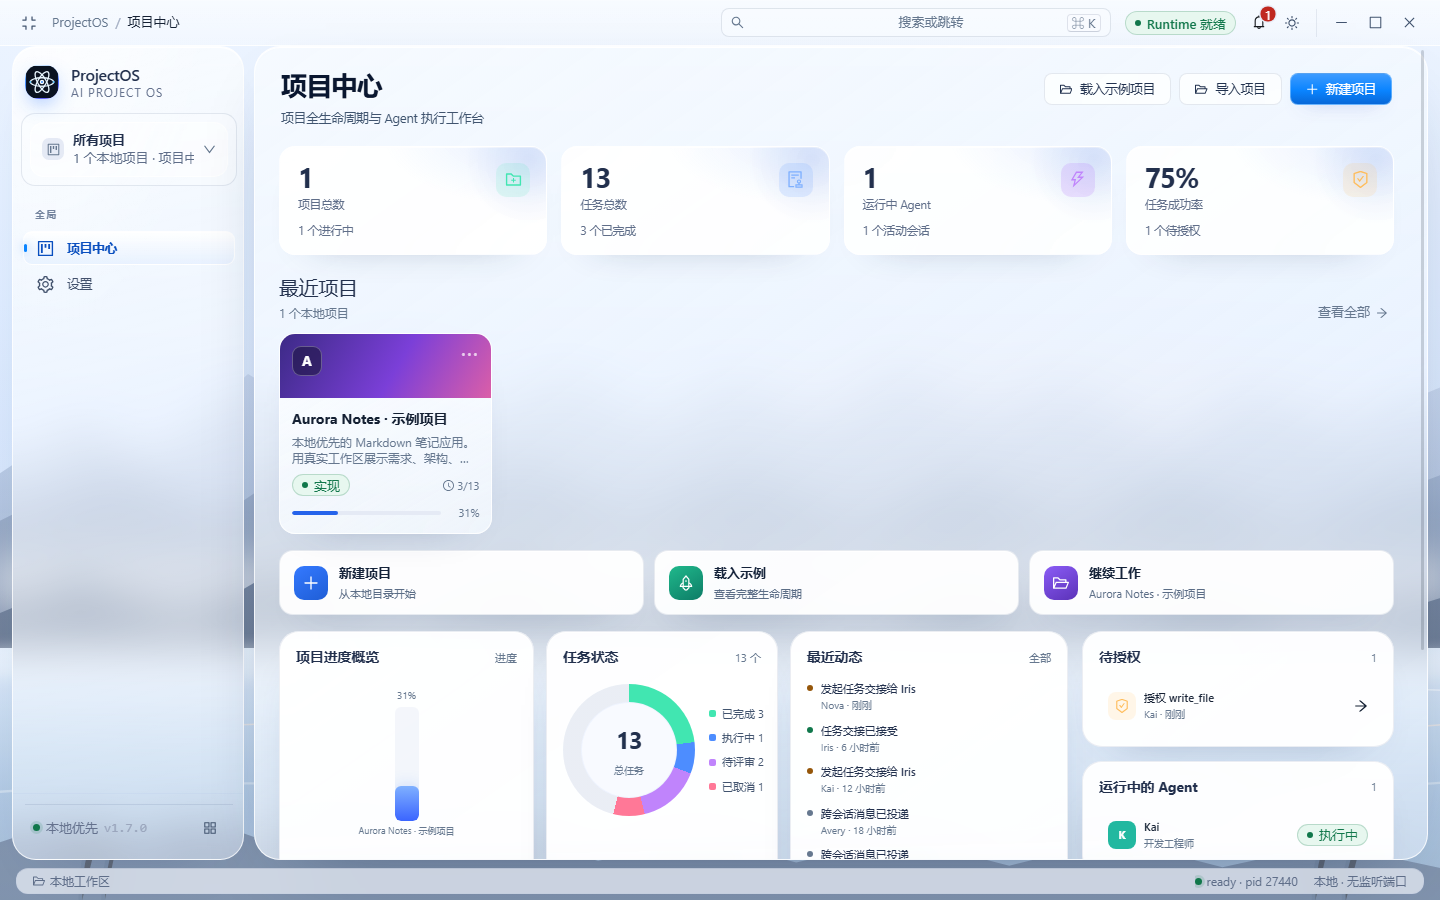
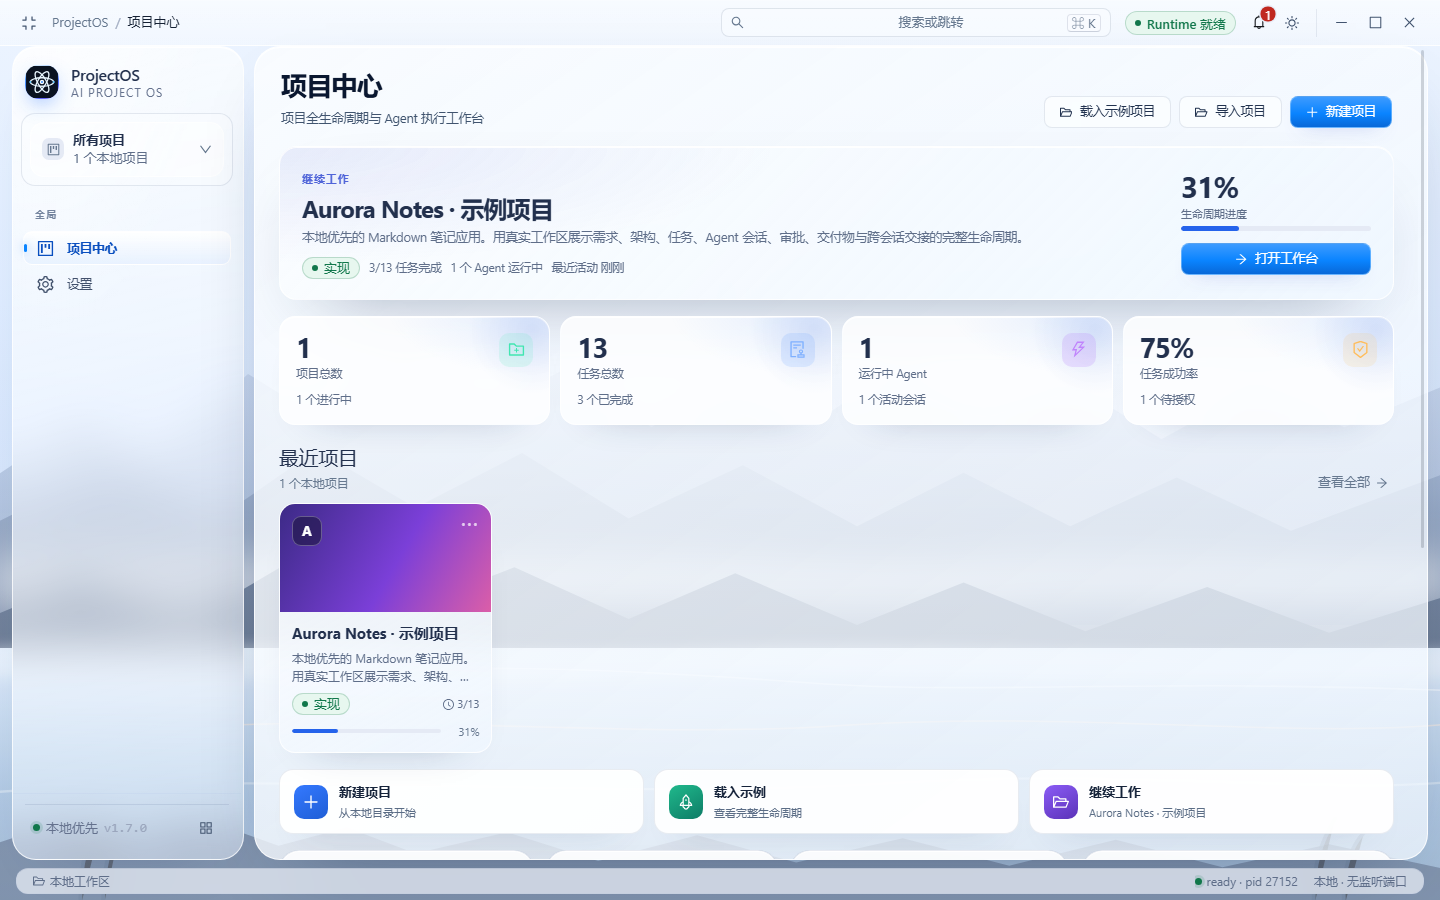
feat(next-ui): give project center a real current-project hero

diff --git a/apps/desktop/src/renderer/src/styles/next-ui-app.css b/apps/desktop/src/renderer/src/styles/next-ui-app.css
@@ -594,3 +594,41 @@
 .pui-overlay-scroll.po-task-detail-scroll { padding: 0; }
 .pui-overlay-scroll.po-task-detail-scroll .po-task-detail { padding: 12px 16px 18px; }
 .pui-overlay-inspector .po-task-drawer-toolbar { margin: 0 0 10px; }
+
+/* Project Center hero: real current project, not a decorative banner. */
+.nx-center-hero {
+  display: grid;
+  grid-template-columns: minmax(0, 1fr) 190px;
+  gap: 18px;
+  align-items: center;
+  padding: 20px 22px;
+  border: 1px solid rgba(255, 255, 255, .78);
+  border-radius: 18px;
+  background:
+    radial-gradient(70% 120% at 0% 0%, color-mix(in srgb, var(--nx-accent) 12%, transparent), transparent 64%),
+    linear-gradient(135deg, rgba(251, 253, 255, .82), rgba(239, 247, 255, .58));
+  box-shadow: inset 0 1px 0 rgba(255, 255, 255, .9), var(--nx-shadow);
+  -webkit-backdrop-filter: blur(20px) saturate(1.12);
+  backdrop-filter: blur(20px) saturate(1.12);
+}
+:root[data-theme='dark'] .nx-center-hero {
+  border-color: var(--nx-line-strong);
+  background:
+    radial-gradient(70% 120% at 0% 0%, color-mix(in srgb, var(--nx-accent) 16%, transparent), transparent 64%),
+    linear-gradient(135deg, rgba(25, 38, 64, .84), rgba(12, 21, 38, .7));
+  box-shadow: inset 0 1px 0 rgba(255, 255, 255, .08), var(--nx-shadow);
+}
+.nx-hero-copy { min-width: 0; }
+.nx-hero-kicker { color: var(--nx-accent); font-size: 11px; font-weight: 620; letter-spacing: .08em; text-transform: uppercase; }
+.nx-hero-copy h2 { margin: 5px 0 5px; color: var(--nx-ink); font-size: 24px; font-weight: 660; letter-spacing: -.035em; line-height: 1.22; }
+.nx-hero-copy p { margin: 0; max-width: 760px; color: var(--nx-muted); font-size: 12.5px; line-height: 1.5; }
+.nx-hero-meta { display: flex; flex-wrap: wrap; align-items: center; gap: 9px; margin-top: 10px; color: var(--nx-muted); font-size: 11.5px; }
+.nx-hero-side { display: flex; flex-direction: column; align-items: stretch; gap: 12px; }
+.nx-hero-progress { display: flex; flex-direction: column; gap: 4px; }
+.nx-hero-progress strong { color: var(--nx-ink); font-size: 30px; font-weight: 660; font-variant-numeric: tabular-nums; letter-spacing: -.04em; line-height: 1; }
+.nx-hero-progress span { color: var(--nx-muted); font-size: 11px; }
+@media (max-width: 900px) {
+  .nx-center-hero { grid-template-columns: 1fr; padding: 16px; }
+  .nx-hero-side { flex-direction: row; align-items: center; justify-content: space-between; }
+  .nx-hero-side .ant-btn { flex: 0 0 auto; }
+}

diff --git a/apps/desktop/src/renderer/src/pages/ProjectCenterPage.tsx b/apps/desktop/src/renderer/src/pages/ProjectCenterPage.tsx
@@ -164,6 +164,30 @@ export default function ProjectCenterPage() {
         <ErrorState message={errorMessage(bootstrap.error)} onRetry={() => void bootstrap.refetch()} />
       ) : null}
 
+      {recentProject ? (
+        <section className="nx-center-hero">
+          <div className="nx-hero-copy">
+            <span className="nx-hero-kicker">继续工作</span>
+            <h2>{recentProject.name}</h2>
+            <p>{recentProject.description ? truncate(recentProject.description, 120) : '尚未填写项目描述'}</p>
+            <div className="nx-hero-meta">
+              <StatusPill tone={toneForStatus(recentProject.status)}>{stageLabel(recentProject.currentStage)}</StatusPill>
+              <span>{recentProject.stats.tasksDone}/{recentProject.stats.tasksTotal} 任务完成</span>
+              <span>{workingAgents.length} 个 Agent 运行中</span>
+              <span>最近活动 {formatRelative(recentProject.lastActivityAt)}</span>
+            </div>
+          </div>
+          <div className="nx-hero-side">
+            <div className="nx-hero-progress">
+              <strong>{Math.round(recentProject.stats.progress * 100)}%</strong>
+              <span>生命周期进度</span>
+              <ProgressBar value={recentProject.stats.progress} height={5} />
+            </div>
+            <Button type="primary" icon={<ArrowRightOutlined />} onClick={() => navigate(`/projects/${recentProject.id}`)}>打开工作台</Button>
+          </div>
+        </section>
+      ) : null}
+
       <div className="v16-stat-grid">
         <div className="v16-stat-card is-teal">
           <div className="v16-stat-icon"><FolderAddOutlined /></div>

diff --git a/apps/desktop/src/renderer/src/components/AppLayout.tsx b/apps/desktop/src/renderer/src/components/AppLayout.tsx
@@ -483,7 +483,7 @@ export default function AppLayout() {
               <span>
                 {currentProject
                   ? `${stageLabel(currentProject.currentStage)} · ${Math.round(currentProject.stats.progress * 100)}%`
-                  : `${projects.length} 个本地项目 · 项目中心`}
+                  : `${projects.length} 个本地项目`}
               </span>
             </span>
             <DownOutlined className="po-project-button-arrow" />

diff --git a/docs/next-ui/MIGRATION_PROGRESS.md b/docs/next-ui/MIGRATION_PROGRESS.md
@@ -158,3 +158,15 @@ Known in this slice:
 - Model detail carries a stable test id; v12 closes it explicitly before closing
   Settings (the non-modal inspector correctly sits above the settings dialog).
 - v12 PASS; v13 PASS; Design Lab 31/31.
+
+## Slice 4 — Project Center composition
+
+- Added a real current-project hero (recent project, stage, completion, active
+  Agents, last activity, progress, open action) above the metric grid.
+- Removed the redundant “· 项目中心” suffix in the project switcher so it no
+  longer truncates at 1440.
+- Hero is pure data from `bootstrap`/`useProjectOverview`; no invented project or
+  fake metrics.
+- Evidence: `docs/next-ui/screens/project-center-1440.png`.
+- Real task creation through the migrated DialogShell was exercised with a
+  temporary project (title + acceptance criterion → task appears on the board).
